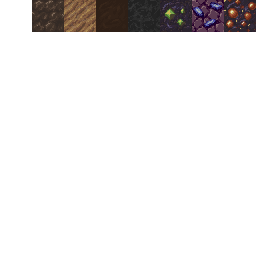
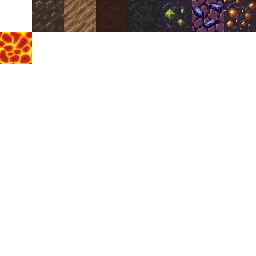
added lava gfx

Changed region(s): [[0.0, 0.125, 0.125, 0.25]]

diff --git a/src/world.c b/src/world.c
@@ -131,6 +131,7 @@ void world_init(World *world)
     }
     world->shader = LoadShader(0, "resources/shader/shader.fs");
     world->shader_position_location = GetShaderLocation(world->shader, "scroll_position");
+    world->shader_time_location = GetShaderLocation(world->shader, "game_time");
     world->shader_map_location = GetShaderLocation(world->shader, "texture_map");
     
     world_reload_tilemap(world);
@@ -430,7 +431,9 @@ void world_draw(World *world)
     BeginShaderMode(world->shader);
     SetShaderValueTexture(world->shader, world->shader_map_location, world->map_texture);
     float scroll = world->depth / (float)(HEIGHT);
+    float time = GetTime();
     SetShaderValue(world->shader, world->shader_position_location, &scroll, SHADER_UNIFORM_FLOAT);
+    SetShaderValue(world->shader, world->shader_time_location, &time, SHADER_UNIFORM_FLOAT);
     DrawTexturePro(world->screen_texture, srcRect, dstRect, origin, 0.0f, WHITE);
     EndShaderMode();
 

diff --git a/src/world.h b/src/world.h
@@ -18,6 +18,7 @@ typedef enum TerrainType
     QUICK_STONE,
     DIG_STONE,
     SAND,
+    LAVA,
     TerrainTypeSize,
 } TerrainType;
 
@@ -33,6 +34,7 @@ Color TerrainTypeToColor[TerrainTypeSize] =
     TERRA_QUICK_STONE,
     TERRA_DIG_STONE,
     TERRA_SAND,
+    TERRA_LAVA,
 };
 
 Color
@@ -84,6 +86,7 @@ typedef struct World
     Texture2D screen_texture;
     Shader shader;
     int shader_position_location;
+    int shader_time_location;
     int shader_map_location;
     Texture2D map_texture;
 

diff --git a/src/config.h b/src/config.h
@@ -21,6 +21,7 @@
 #define TERRA_QUICK_STONE (CLITERAL(Color){ 3, 121, 241, 255 })
 #define TERRA_DIG_STONE (RED)
 #define TERRA_SAND (CLITERAL(Color) {237, 214, 92, 255})
+#define TERRA_LAVA (CLITERAL(Color) {255, 0, 0, 255})
 
 #define NUM_SEEDS (30)
 #endif
